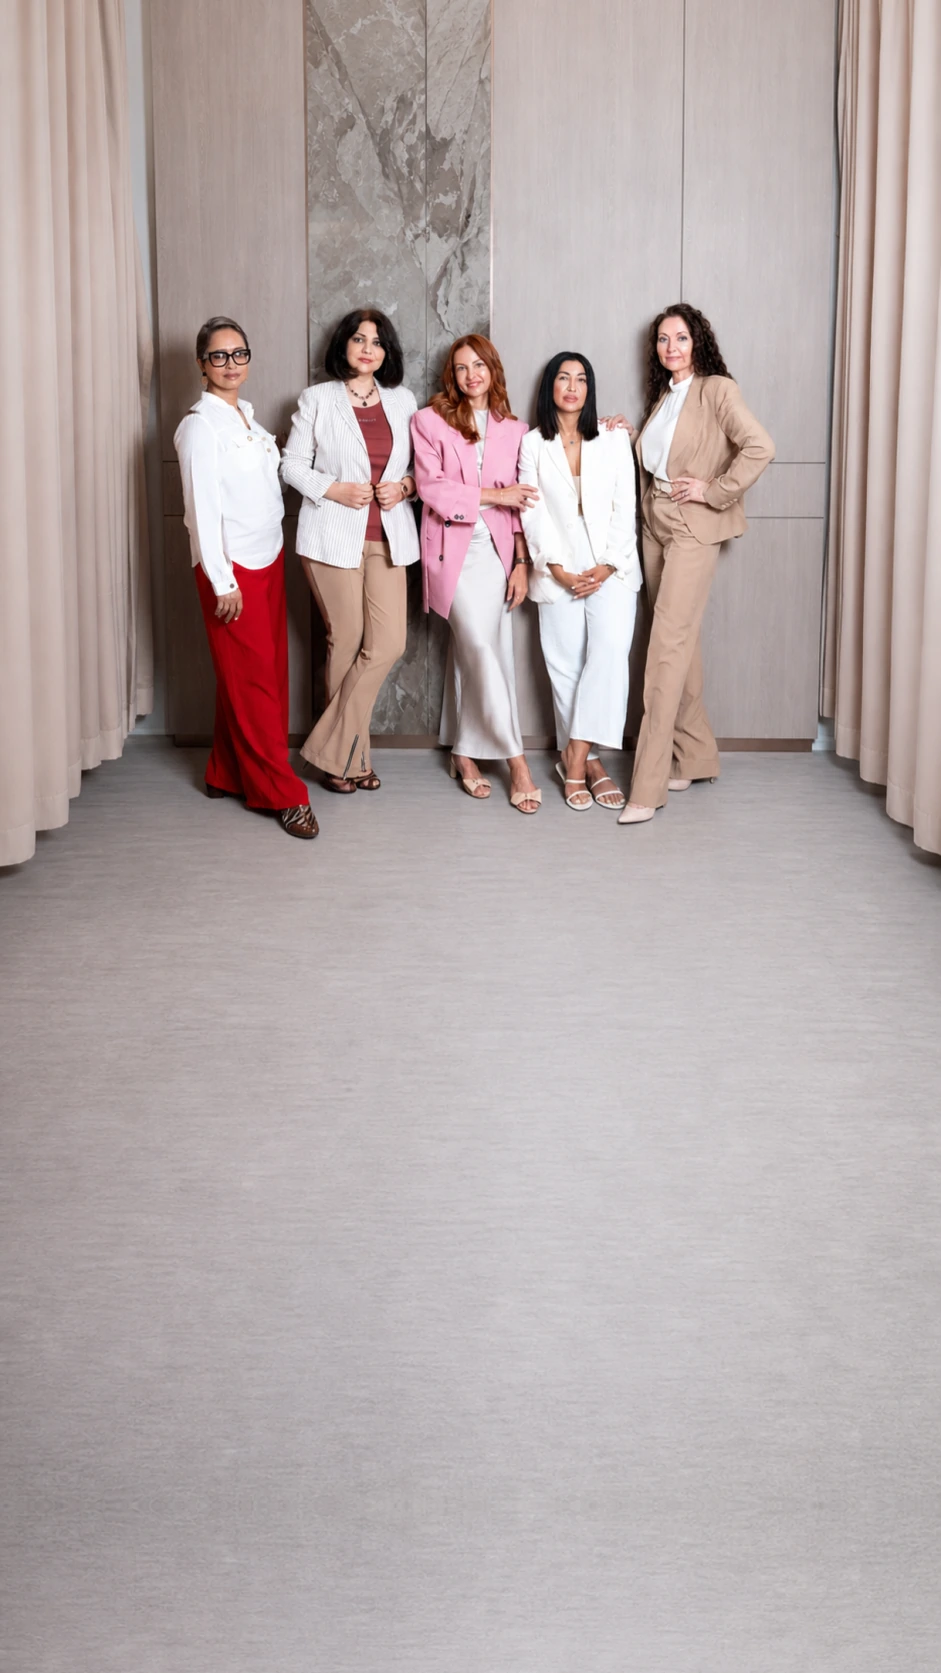
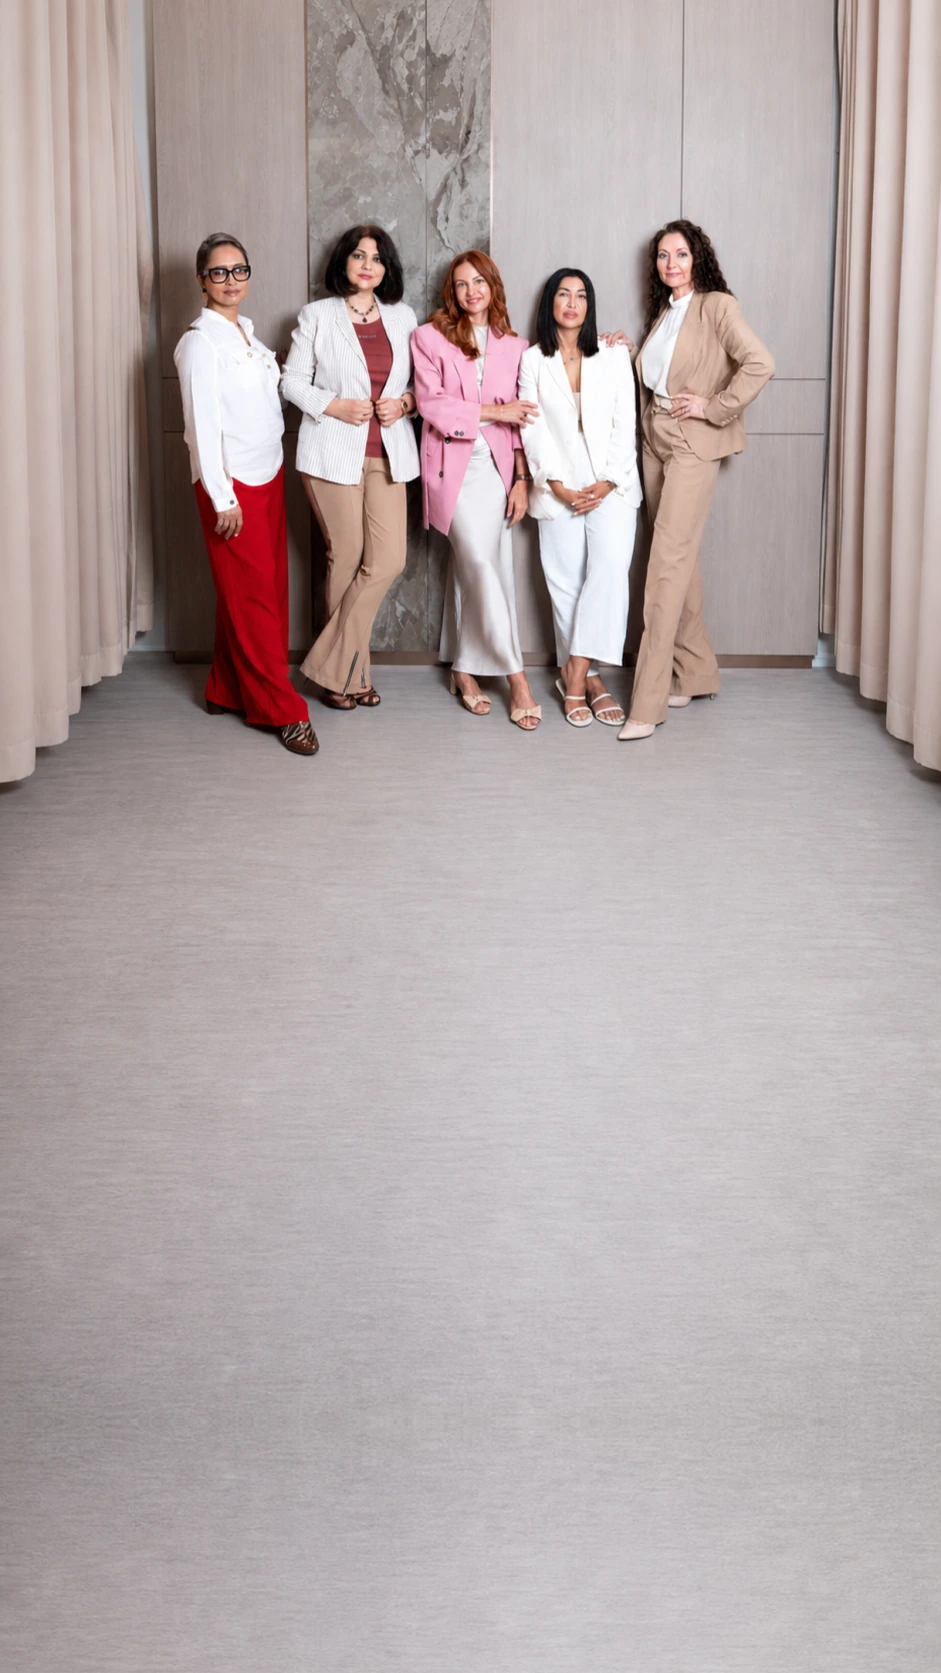
Chapter 01 turns light-key, and the italic takes the mark's own red
His ask was two things — "your best life" in burgundy, and the red logo by
default — and measurement said they were one thing. On the dark-key hero the
ground under that line sits at luminance .08; burgundy is .035, so it read
1.15:1 against a 3.0 floor, and the red mark read 1.31. The whole wine family
was at parity with its background, not near it.

So the scrim was inverted rather than the colour compromised. An ivory wash,
dark copy, and both asks land: the italic in #8E2D3A — sampled from the mark,
his idea, so the page carries ONE red — at 5.28-6.43, and the mark at 6.31.
Burgundy measured higher (7.42) and was offered; he chose the logo's red.

The phone plate is his third vertical (+15%), and the wash stops at 82% of it
rather than 98% on his correction that it was "so white on their body" — which
also gives the clothes and the red trousers their colour back. 82% is the knee:
64% and 72% clear the group but drop the headline to 1.01 and 2.43 at 360.

Every element now clears at all six viewports, worst line per element:
kicker 5.79, h1 3.25, em 5.28, body 4.85, cta 10.03.

Changed region(s): [[0.0, 0.0, 1.0, 0.5595], [0.0925, 0.0, 0.1541, 0.1243]]

diff --git a/index.html b/index.html
@@ -47,6 +47,13 @@
 :root{
   --ivory:#FAF7F1; --cream:#F4EDE1; --line:#DED4C2;
   --burgundy:#5C1F31; --rose:#C79A92;
+  /* --logo-red is SAMPLED FROM THE MARK, not invented: median of every pixel
+     in logo-red.webp with alpha>200 is rgb(142,45,58). His call 2026-08-04,
+     "what if we use the same red as the logo that we have" — so the hero's
+     italic and the logotype are literally one ink. Do not "tidy" it toward
+     --burgundy (#5C1F31): that is a deeper, more purple wine and sitting a few
+     inches from the mark it reads as a near-miss rather than a second colour. */
+  --logo-red:#8E2D3A;
   --gold:#C2A05E; --gold-deep:#8A6A34; --gold-tint:#F1E7D2;
   --ink:#2E2228; --ink-soft:#6A585F;
   /* three roles, one source of truth. --serif/--sans stay as aliases so no
@@ -143,6 +150,34 @@ body.nav-open .hdr{background:transparent;border-bottom-color:transparent;backdr
 .hdr--solid .mark{filter:none}
 .hdr--solid .mark__img--ivory{display:none}
 .hdr--solid .mark__img--red{display:block}
+/* HIS ASK 2026-08-04: "the logo now here will be the default red logo" — i.e.
+   red at scroll 0 too, which is the ONLY place the ivory one was ever shown
+   (.hdr--solid latches at y>=24, so the ivory mark had a 24px life).
+   ⚠ DESKTOP ONLY, AND THE SCOPE IS MEASURED, NOT CAUTIOUS. The red mark needs
+   the light-key hero under it: on the old dark frame it read 1.31:1. With the
+   wash, desktop is 6.31-6.71. His call, asked and answered: red on desktop,
+   ivory on phones — and the bar swaps to red the moment either one scrolls.
+
+   ⚠⚠ PROVISIONAL, AND HE HAS NOT SEEN IT LIVE YET — THE PHONE MARK IS THE ONE
+   THING ON THIS CHAPTER THAT GOT WORSE. The 15% vertical shows pale curtains
+   behind the mark (ground L .316 where the old plate gave .177), so measured
+   against the raw ground the IVORY mark now reads 2.26 worst / 2.68 median,
+   where the old hero gave it ~4.35. Red there is worse still (1.62 worst).
+   Both colourways are short on this frame; ivory is the better of the two,
+   which is why the answer above did not change.
+   ⚠ THE NUMBER UNDERSTATES IT: the measuring pass hides .mark to shoot the
+   ground, so the mark's own drop-shadow halo — which is doing real work here —
+   cannot appear in it. Trust the crop over the ratio for this one element.
+   A heavier halo WAS built and rejected on looks, not numbers: it reads as a
+   grey smudge around the letterforms.
+   Real fixes if he wants one: a mark-sized scrim pad behind the logo (new
+   chrome, budget frozen), or a phone plate whose top strip is darker.
+   RE-ASK once he has seen it on his own phone. */
+@media (min-width:900px){
+  .mark{filter:none}
+  .mark__img--ivory{display:none}
+  .mark__img--red{display:block}
+}
 
 .hdr__right{display:flex;align-items:center;gap:.7rem}
 /*
@@ -422,52 +457,104 @@ main{position:relative}
       linear-gradient(to right,rgba(30,20,16,.42) 0%,rgba(30,20,16,0) 55%);
   }
 }
-/* Chapter 01 on the phone now needs the same treatment, 2026-08-04, and for a
-   harder version of the same reason. His new hero plate
-   (team-hero-portrait.webp) puts five ivory/white outfits and a lit floor exactly
-   where the headline lands — the old frame had a shadowed shoulder under that
-   band. Stock light scrim on this frame: h1 2.80 / 2.31 / 2.02 at 430/390/360,
-   against a 3.0 floor for large text.
-
-   ⚠ THE SHAPE WAS CHOSEN BY MEASUREMENT, NOT BY EYE, and the cheap fixes were
-   tried first and rejected on numbers — on the FIRST vertical, the one where the
-   group sat low enough that the headline crossed their legs:
+/* ⚠ HISTORY, KEPT BECAUSE IT IS THE ARGUMENT FOR THE BLOCK BELOW, 2026-08-04.
+   ch01 briefly carried its OWN DARK phone scrim (a bottom-up wash at
+   .92/.80 34%/.64 60%/.24 78%/0 92%). It shipped, it worked, and it is gone —
+   the chapter went light-key hours later so his brand red could live on the
+   headline. Do not restore it without reverting the whole block below; the two
+   are mutually exclusive.
+   What that pass PROVED, and what still holds for any future frame here:
      · crop anchor is NOT a lever — 50% and 72% both gave 2.31 at 390. At 0.5626
        against a 0.462 viewport the plate covers by HEIGHT, so it is only ever
        cropped horizontally and both windows are equally bright. Vertical
-       background-position does nothing whatsoever here.
-     · zooming the plate to lift the group out of the headline band
+       background-position does nothing whatsoever on this chapter.
+     · zooming the plate to lift the group clear of the headline band
        (background-size:auto 122%, anchored bottom) reached only 2.54.
-   HE THEN RE-SHOT THE FRAME instead, +10% higher, which is the fix CSS could not
-   buy — and it is the plate that ships. It does NOT remove the need for this
-   block: the headline now lands on the open floor rather than on five white
-   outfits, but that floor is bright and even, so on the stock light scrim ch01
-   still measures h1 2.55 at 390 and 1.98 at 360.
-   Three shapes, all re-measured ON THE SHIPPING PLATE:
-     A  #s5's exact shape       390 h1 3.92   360 h1 2.51  ← FAILS at 360
-     B  this one                390 h1 5.70   360 h1 3.65
-     C  heaviest (.94/.86/.72)  390 h1 8.02   360 h1 6.40
-   A is out on measurement, not taste: it clears 430 and 390 and fails the
-   smallest phone — and it failed 360 on the previous vertical too, so the frame
-   change did not rescue it. B is the KNEE, the lightest shape that clears every
-   size, worst line 3.65 against a 3.0 floor. C buys ~3 more points by visibly
-   darkening the floor and the group's legs, which is the photograph paying for
-   margin it does not need. If more separation is ever wanted, C is this same
-   block with .94 0% / .86 38% / .72 64% / .34 82% / 0 96%.
-   Shipped (B), worst line per element:
-     430   h1 7.87   body 6.90   cta 11.67
-     390   h1 5.70   body 6.65   cta 11.54
-     360   h1 3.65   body 6.28   cta 11.37
-   ⚠ Desktop is untouched by this — the block is max-width:899px, and ch01 on
-   desktop measures fine on the stock scrim (h1 4.23/3.87/3.48). RE-MEASURE all
-   three phone sizes if the hero frame, the copy, or the font ever changes. */
+     · ch05's scrim shape does NOT transfer: it cleared 430 and 390 here and
+       failed 360 (2.51) on two different verticals. Measure per chapter.
+   The real fix each time was the FRAME, and he re-shot it twice — +10%, then
+   +15% higher — which is what finally put the copy on open floor. */
+/* ══ CHAPTER 01 IS LIGHT-KEY, 2026-08-04 ═══════════════════════════════════
+   HIS ASK: "make a play of the colors like the your best life being burgundy,
+   and the logo now here will be the default red logo". BOTH of those turned out
+   to be the same request, and neither was possible on a dark-key hero.
+
+   ⚠ THIS IS WHY THE WHOLE CHAPTER FLIPPED — it is not a mood change for its own
+   sake. Measured on the real frame, worst-2% per line against a 3.0 floor:
+
+     ink on the DARK-KEY hero (ground L .08-.09)      1440      390
+       burgundy #5C1F31                               1.15      1.00
+       logo red #8E2D3A                               1.01      ——
+       rose     #C79A92                               2.17      3.81
+       champagne#E4D3B4                               3.66      6.43
+       ivory    (what it was)                         5.04      8.84
+     the RED MARK on the dark-key hero                1.31 median — invisible
+
+   Dark ink cannot sit on a ground the scrim exists to keep dark; the wine family
+   is not "close", it is at parity with the background. So the scrim was INVERTED
+   rather than the colour compromised: an ivory wash, dark copy, and both of his
+   asks land. Same ground, re-measured:
+       logo red #8E2D3A  5.07 (1440) / 4.86 (390)   ← SHIPPED
+       burgundy #5C1F31  7.74 / 7.42                ← offered, he chose the mark's own red
+       red mark          6.03 (1440)
+
+   ⚠ THE HERO IS NOW THE ONLY LIGHT-KEY CHAPTER. Everything scoped #s1 below is
+   load-bearing for that: lift the wash and the dark copy is stranded on a photo,
+   keep the wash and revert the copy and it is ivory on ivory. They move together.
+   ch02-ch08 are untouched and still dark-key.
+   ⚠ Chapter 05 runs the SAME five people on a bright frame and would need its
+   own measurement pass before any of this is carried across — HIS SCOPE WAS
+   "hero only for now". Do not generalise it uninvited. */
+@media (min-width:900px){
+  #s1::after{
+    background:
+      linear-gradient(to right,rgba(250,247,241,.86) 0%,rgba(250,247,241,.72) 42%,rgba(250,247,241,.46) 62%,rgba(250,247,241,0) 84%);
+  }
+}
+/* ⚠ THE PHONE WASH IS SHAPED TO STOP AT THEIR FEET, AND THAT IS HIS CORRECTION,
+   not a default. First build ran it to 98% of the plate — enough to cover the
+   copy, but it lay at .30-.60 alpha straight across the group and milked them
+   out. His words: "above the your hormones there is no need to make it so white
+   on their body right". Correct, and it also explains a second symptom: with the
+   top of the plate washed pale, the ivory mark up there fell to 2.15:1.
+   ⚠ IT CANNOT SIMPLY BE CUT SHORT — the tension is real and measured. The copy
+   is DARK ink now, so it fails against DARK pixels, and at 390/360 the top line
+   of the headline crosses the shadow under their feet and the red trousers.
+   Reach tested against h1 worst-2%, floor 3.0, at 430/390/360:
+     zero at 64%   7.12 / 1.48 / 1.01   ← group clean, headline gone
+     zero at 72%   8.33 / 2.43 / 1.34
+     zero at 74%   8.99 / 3.35 / 1.89
+     zero at 82%  10.30 / 5.21 / 3.25   ← THIS. clears everywhere
+     zero at 98%  10.00 / 5.63 / 4.58   ← the milky one
+   82% is the knee: it lifts the floor and the foot shadows, which is all the
+   headline needs, and dies below their knees so the clothes keep their colour.
+   RE-MEASURE 360 first if this is ever touched — it is the size that breaks. */
 @media (max-width:899px){
   #s1::after{
     background:
-      linear-gradient(to top,rgba(30,20,16,.92) 0%,rgba(30,20,16,.80) 34%,rgba(30,20,16,.64) 60%,rgba(30,20,16,.24) 78%,rgba(30,20,16,0) 92%),
-      linear-gradient(to right,rgba(30,20,16,.42) 0%,rgba(30,20,16,0) 55%);
+      linear-gradient(to top,rgba(250,247,241,.90) 0%,rgba(250,247,241,.84) 34%,rgba(250,247,241,.72) 52%,rgba(250,247,241,.46) 64%,rgba(250,247,241,.14) 74%,rgba(250,247,241,0) 82%);
   }
 }
+/* the copy stack inverts with it. Values are the site's own tokens — nothing new
+   was mixed except --logo-red, which is sampled from the mark.
+   ⚠ THE KICKER IS THE ONE PLACE A TOKEN DID NOT SURVIVE THE FLIP. --gold-deep
+   (#8A6A34) is built for a DARK ground; on the ivory wash it measured 3.52-3.56
+   at every desktop size against a 4.5 floor for small text. #6E5427 is the same
+   hue two steps down and clears at 5.79. Flattening it to --ink measures 12.46
+   but throws the gold accent away, which is the chapter's only warm note besides
+   the red — so the darker gold is the deliberate pick, not a compromise.
+   (The kicker is hidden below 900px by his 2026-08-04 call, so this is a
+   desktop-only concern.) */
+#s1 h1{color:var(--ink)}
+#s1 .body{color:rgba(46,34,40,.82)}
+#s1 .kicker{color:#6E5427}
+#s1 .kicker::after{background:linear-gradient(to right,#6E5427,transparent)}
+#s1 .cta{
+  border-color:rgba(46,34,40,.45);background:rgba(250,247,241,.55);color:var(--ink);
+}
+#s1 .cta:hover{border-color:var(--ink);background:rgba(250,247,241,.75)}
+#s1 .hint{color:rgba(46,34,40,.55)}
+#s1 .hint i{background:linear-gradient(to bottom,rgba(46,34,40,.5),transparent)}
 /* ...and its own on desktop, for the reason #s6 has one: this is now a frame with
    no dark region under the copy. The plate it replaced carried a charcoal shelving
    unit right where the column sits, which is where that chapter's ~15:1 CTA came
@@ -617,7 +704,12 @@ h1 em,h2 em{font-family:var(--font-editorial);font-style:italic;font-weight:450;
    real range is pale: ivory > cream > champagne, in that order. A coloured
    italic here needs a darker ground first (deeper scrim or a different crop),
    not a different swatch. Board sent; when he picks, change this one rule. */
-#s1 h1 em,#s5 h2 em{color:inherit}
+#s5 h2 em{color:inherit}
+/* ch01's italic is the one place a brand colour survived — because the ground
+   under it was inverted for exactly this. See the LIGHT-KEY block above for the
+   full table; the short version is that on the old dark ground this same red
+   measured 1.01:1. RE-MEASURE if the hero frame or the wash ever changes. */
+#s1 h1 em{color:var(--logo-red)}
 
 .body{
   font-size:clamp(1.05rem,1.2vw,1.2rem);line-height:1.62;
@@ -2219,13 +2311,16 @@ html[dir="rtl"] .f-social,html[dir="rtl"] .sband__belt{direction:ltr}
          `...-mobile-bottom-copy.png` (2160x3840), uploaded together through the
          GitHub web UI (commit 332120b, the only two files in it) and assigned as
          his own filenames say — the wide one on desktop, the tall one on the
-         phone. The phone plate was then RE-SHOT and re-uploaded as
-         `...-mobile-bottom-copy-higher-10pct.png` (commit 7bfe80b) with the group
-         ~10% higher, after measurement showed the headline crossing their legs;
-         that later file is the one that ships, the first vertical is unused.
+         phone. The phone plate was then RE-SHOT TWICE, each time after seeing the
+         measurements: `...-higher-10pct.png` (commit 7bfe80b), then
+         `15% high phone.png` (commit b4a45bc) with the group ~15% higher, which
+         is the one that ships. The two earlier verticals are unused — kept in
+         images/ as his uploads, not referenced.
          Encoded q92 to images/team-hero.webp (137 KB) and
-         images/team-hero-portrait.webp (159 KB), downsampled to the site's
+         images/team-hero-portrait.webp (162 KB), downsampled to the site's
          standard plate size (1672 wide / 941 wide) rather than shipping 8 MB.
+         ⚠ THE PATTERN, worth repeating: showing him the numbers got a better
+         FRAME twice over, which no amount of CSS could have bought.
          New filenames, never an overwrite, so no cache holds a stale frame and
          the revert is these two lines. The predecessors keep their own names:
          09-light.webp and 09-light-portrait.webp (his `mature portrait.png`,
@@ -2240,35 +2335,28 @@ html[dir="rtl"] .f-social,html[dir="rtl"] .sband__belt{direction:ltr}
            1920  kicker 6.52->7.51  h1 3.26->4.23  body 3.01->3.62  cta 6.65->7.78
            1440  kicker 6.00->6.29  h1 3.17->3.87  body 2.01->3.36  cta 5.70->6.73
            1280  kicker 4.52->5.94  h1 2.21->3.48  body 2.07->3.38  cta 5.65->6.43
-         Desktop is a straight gain at every size and it FIXES a real failure:
-         the headline at 1280 was 2.21 against a 3.0 floor and now clears it.
-         The body paragraph is still under 4.5 (3.36-3.62) — it was 2.01-3.07
-         before, so this frame improves it without closing it. That shortfall is
-         the site-wide one described in HANDOVER_NEXT_CHAT.md, not this frame's.
+         Desktop was a straight gain at every size on the dark-key scrim it
+         first shipped with (h1 2.21->3.48 at 1280, which fixed a live failure).
+         Those numbers are HISTORY NOW — hours later the chapter went LIGHT-KEY
+         (see the CHAPTER 01 IS LIGHT-KEY block in the stylesheet), so every
+         contrast figure for ch01 was re-taken on the inverted ground. The frame
+         swap and the colour flip are two separate decisions that happened to
+         land the same day; do not read one set of numbers as the other's.
 
-         ON THE PHONE THE FRAME ALONE WAS A LOSS, and it took BOTH a re-shot
-         plate and a new scrim to turn it around. The first vertical, on the
-         stock scrim, old -> new:
-           430   h1 4.79->2.80   body 5.14->4.39   cta 10.04->6.61
-           390   h1 4.09->2.31   body 4.64->4.41   cta  9.99->6.66
-           360   h1 3.13->2.02   body 3.94->2.66   cta 10.07->6.56
-         Cause, verified in the crops: the headline landed across the group's
-         bodies — five ivory/white outfits — where the old portrait had a
-         shadowed shoulder under exactly that band. He re-shot it +10% higher so
-         the headline sits on open floor; that alone got 390 to 2.55, still short
-         of the 3.0 floor, because the floor is bright and even.
-         So #s1 also carries its own phone scrim now, the way #s5 does — see the
-         max-width:899px #s1::after block in the stylesheet, which records the
-         two CSS-only fixes that were tried and failed on numbers (crop anchor,
-         zooming the plate) and the three shapes that were measured on the
-         shipping plate. Shipped:
-           430   h1 7.87   body 6.90   cta 11.67
-           390   h1 5.70   body 6.65   cta 11.54
-           360   h1 3.65   body 6.28   cta 11.37
-         Every phone size now clears h1 3.0 / body 4.5 / cta 4.5 — which the OLD
-         hero did not do either (it failed the body at every phone size, worst
-         3.94 at 360). RE-MEASURE all three rather than assuming, if the frame or
-         the copy ever changes. -->
+         AS SHIPPED, light-key, worst LINE per element, all six viewports
+         (floors: h1 3.0 large text, everything else 4.5):
+           1920  kicker 5.83  h1 11.65  em 6.20  body 7.23  cta 12.18
+           1440  kicker 5.83  h1 11.98  em 6.37  body 6.57  cta 12.12
+           1280  kicker 5.79  h1 11.32  em 6.25  body 4.85  cta 10.03
+           430              h1 10.00  em 6.09  body 7.22  cta 12.33
+           390              h1  5.63  em 5.97  body 7.14  cta 12.39
+           360              h1  4.58  em 5.16  body 7.00  cta 12.38
+         (kicker is hidden below 900px, his call.) Every element clears at every
+         size — the first time this chapter has done that on BOTH axes.
+         ⚠ 1280 body 4.85 is the tightest number on the page and the one that
+         breaks first: it is the copy column reaching furthest right relative to
+         the wash. If the column widens, the type grows, or the wash is lightened,
+         RE-MEASURE 1280 before anything else. -->
     <div class="bg" data-src="images/team-hero.webp"
          data-src-narrow="images/team-hero-portrait.webp"></div>
     <div class="inner"><div class="copy">
